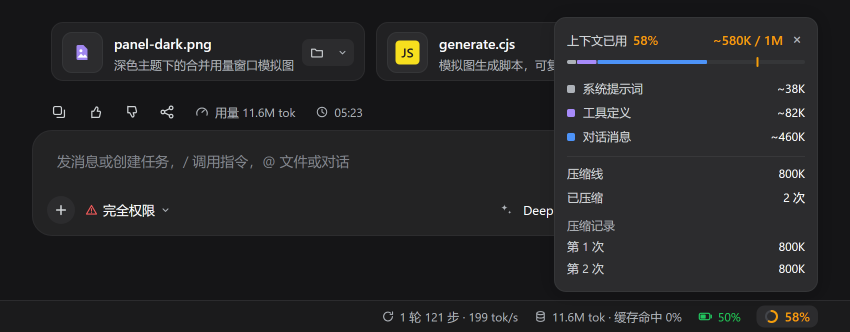
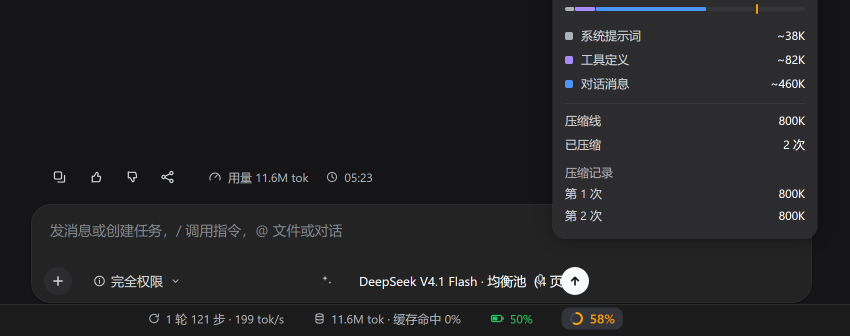
Rebuild mockups from measured DSH geometry; drop the stray file cards

diff --git a/README.en.md b/README.en.md
@@ -10,9 +10,9 @@ A DeepSeek Harness (DSH) Web GUI plugin that **merges context-compaction details
 
 ## Preview
 
-> The images below are **mockups** drawn at DSH's real window metrics (850px wide, the shipped card/composer/status-bar sizes and colors), not screenshots; the figures on screen are the plugin's own arithmetic, not decoration.
+> The images below are **mockups** redrawn from a pixel-by-pixel measurement of a real 850×276 DSH window, not screenshots; the figures on screen are the plugin's own arithmetic.
 
-Light theme: the popover is still the original usage window, plus the compaction line, the compaction count and each compaction's threshold; the trigger chip sits at the right edge of the status bar.
+Light theme: the shipped usage popover is still where it was, now carrying the compaction line, the compaction count and each compaction's threshold; the trigger chip sits at the right end of the footer strip.
 
 ![Merged usage window, light theme](docs/images/panel-light.png)
 
@@ -104,7 +104,18 @@ If a model has its own compaction policy (`modelPolicies`), put the equivalent r
 node docs/mockups/generate.cjs
 ```
 
-The script redraws the DSH window at its shipped metrics — cards 314×59 with an 11px gap at x=51, composer inset 32px with a 20px radius, a 28px status bar with a 1px top border, the 264px popover aligned to the chip's right edge and 40px above the status bar — using `dsh-client-ui-theme`'s literal values (light: `#fafafa` cards, `#ffffff` popover, `#e9e9e9` borders; dark: `#212123`, `#2c2c2e`; chart colors `#adb2b8`/`#a78bfa`/`#4d93f8`; state colors `#22c55e`/`#f59e0b`/`#ec1313`). It renders with headless Chrome at 2x, crops the transparent margin and box-filters down to 1x. Change the script together with the UI so the two never drift. Requires Node 20+ and Chrome (or set `CHROME_PATH`).
+Every coordinate in the script was measured pixel by pixel off a real 850×276 DSH window rather than estimated:
+
+| Element | Measured |
+|---|---|
+| composer | x 31–812 (781 wide), y 145–244 (99 tall), radius 20, 1px `#ececec` |
+| placeholder | 14px `#adb2b8` at x 49 |
+| control row | `+` circle 43–70 (`#f5f6f7`, 28px) · circled-i 92–111 · 完全权限 112–160 · ⌄ 168–175 · ✦ 319–328 · model 358–524 · mic 532–544 · send 560–588 |
+| message actions | copy 52 · up 88 · down 124 · share 160 (36px pitch) · usage 206–303 · 05:23 320–347 |
+| footer strip | 1px `#e9e9e9` border at y=244, `#fafafa` fill, row right-aligned to the chip's right edge x=623 |
+| popover | x 553–817 (264 wide), 38px above the bottom, 12px padding, radius 12 |
+
+Colors are `dsh-client-ui-theme`'s literal values: light `#fafafa`/`#ffffff`/`#ececec`/`#adb2b8`/`#61666b`, dark `#212123`/`#232324`/`#2c2c2e`; chart `#adb2b8`·`#a78bfa`·`#4d93f8`; state `#22c55e`·`#f59e0b`·`#ec1313`. With the popover open the chip's background is the hover overlay `#ecedee`, not `#f5f6f7`. It renders with headless Chrome at 2x, crops the transparent margin and box-filters down to 1x. Change the script together with the UI so the two never drift. Requires Node 20+ and Chrome (or set `CHROME_PATH`).
 
 ## Caveats
 

diff --git a/README.md b/README.md
@@ -10,9 +10,9 @@ English: [README.en.md](README.en.md)
 
 ## 界面预览
 
-> 以下为按 DSH 实际界面（850px 窗口宽度、卡片/输入框/状态栏的真实尺寸与配色）制作的**模拟图**，非真机截图；图上的数字就是插件自己的算式结果，不是装饰。
+> 以下为按 DSH 真实窗口（850×276）**逐像素量取坐标**后重画的**模拟图**，非真机截图；图上的数字就是插件自己的算式结果。
 
-浅色主题：弹层仍是原来的用量窗口，多了压缩线、已压缩次数与每次压缩的阈值；触发胶囊就在状态栏最右侧。
+浅色主题：输入框下方原有的用量窗口仍在原位，弹层里多了压缩线、已压缩次数与每次压缩的阈值；触发胶囊在底部状态栏最右端。
 
 ![浅色主题下的合并用量窗口](docs/images/panel-light.png)
 
@@ -104,7 +104,18 @@ bundle 行可覆盖两项（`cordis.patch.yml` 已写出默认值）：
 node docs/mockups/generate.cjs
 ```
 
-脚本按 DSH 真实界面重画窗口：卡片 314×59、间距 11、左边界 51；输入框左右 32、圆角 20；状态栏 28px 高带 1px 上边框；弹层 264px 宽、与胶囊右缘对齐、距状态栏 40px。配色取 `dsh-client-ui-theme` 的实值（浅色 `#fafafa` 卡片、`#ffffff` 弹层、`#e9e9e9` 描边；深色 `#212123`、`#2c2c2e`；图表色 `#adb2b8`/`#a78bfa`/`#4d93f8`；状态色 `#22c55e`/`#f59e0b`/`#ec1313`）。渲染用 headless Chrome 2x，裁掉透明边后 box-filter 降到 1x。改界面时同步改脚本，图和实现就不会漂。需要 Node 20+ 与 Chrome（或设 `CHROME_PATH`）。
+脚本里的每个坐标都是从真实 DSH 窗口（850×276）逐像素量出来的，不是估的：
+
+| 元素 | 实测值 |
+|---|---|
+| 输入框 | x 31–812（781 宽），y 145–244（99 高），圆角 20，1px `#ececec` |
+| 占位文字 | 14px `#adb2b8`，x 49 |
+| 控件行 | `+` 圆 43–70（`#f5f6f7`，28px）· 圆形 i 图标 92–111 · 完全权限 112–160 · ⌄ 168–175 · ✦ 319–328 · 模型名 358–524 · 麦克风 532–544 · 发送 560–588 |
+| 消息操作行 | 复制 52 · 赞 88 · 踩 124 · 分享 160（36px 间距）· 用量 206–303 · 05:23 320–347 |
+| 底部状态栏 | y=244 处 1px `#e9e9e9` 上边框，`#fafafa` 填充，整排右端对齐到胶囊右缘 x=623 |
+| 弹层 | x 553–817（264 宽），距底部 38px，内边距 12，圆角 12 |
+
+配色取 `dsh-client-ui-theme` 实值：浅色 `#fafafa`/`#ffffff`/`#ececec`/`#adb2b8`/`#61666b`，深色 `#212123`/`#232324`/`#2c2c2e`；图表色 `#adb2b8`·`#a78bfa`·`#4d93f8`；状态色 `#22c55e`·`#f59e0b`·`#ec1313`。弹层打开时胶囊底色是悬停叠加色 `#ecedee`（不是 `#f5f6f7`）。渲染用 headless Chrome 2x，裁掉透明边后 box-filter 降到 1x。改界面时同步改脚本，图和实现就不会漂。需要 Node 20+ 与 Chrome（或设 `CHROME_PATH`）。
 
 ## 需要注意
 
